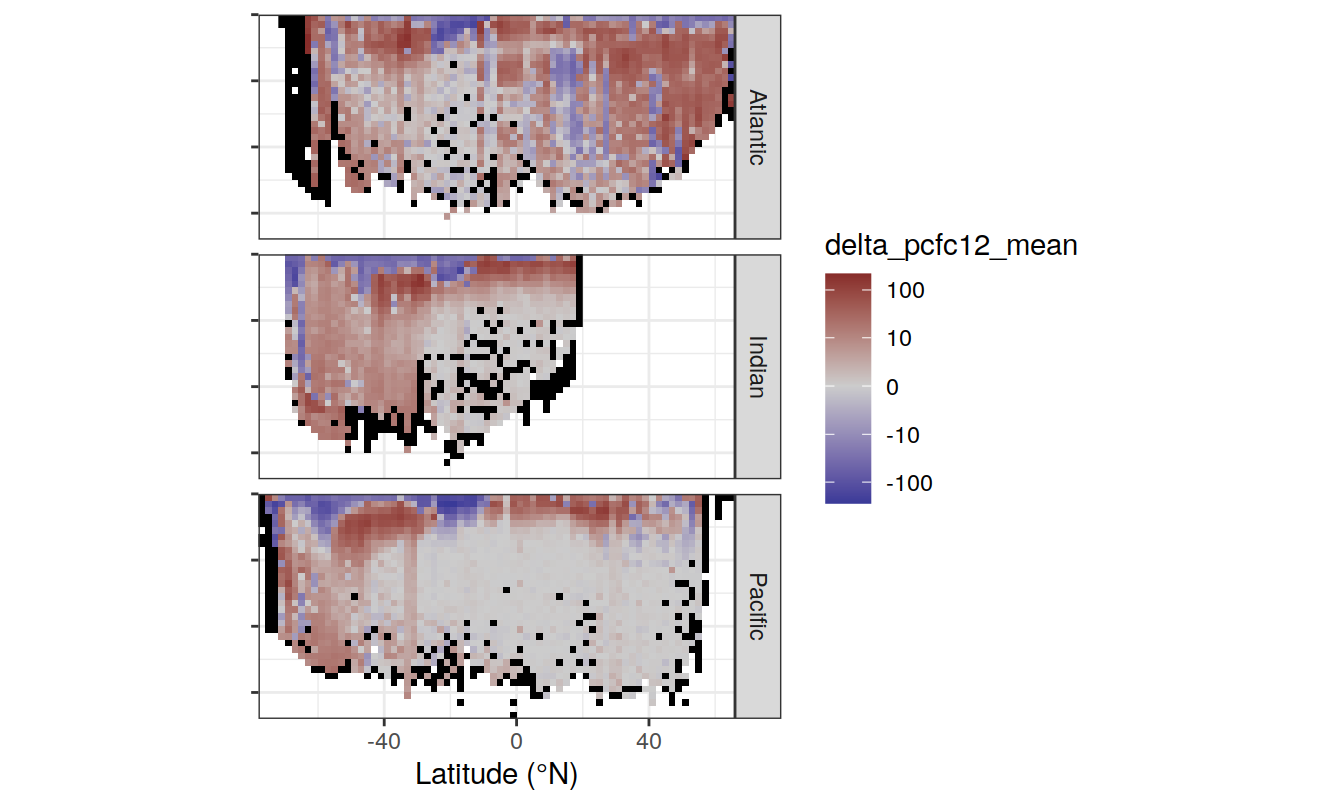
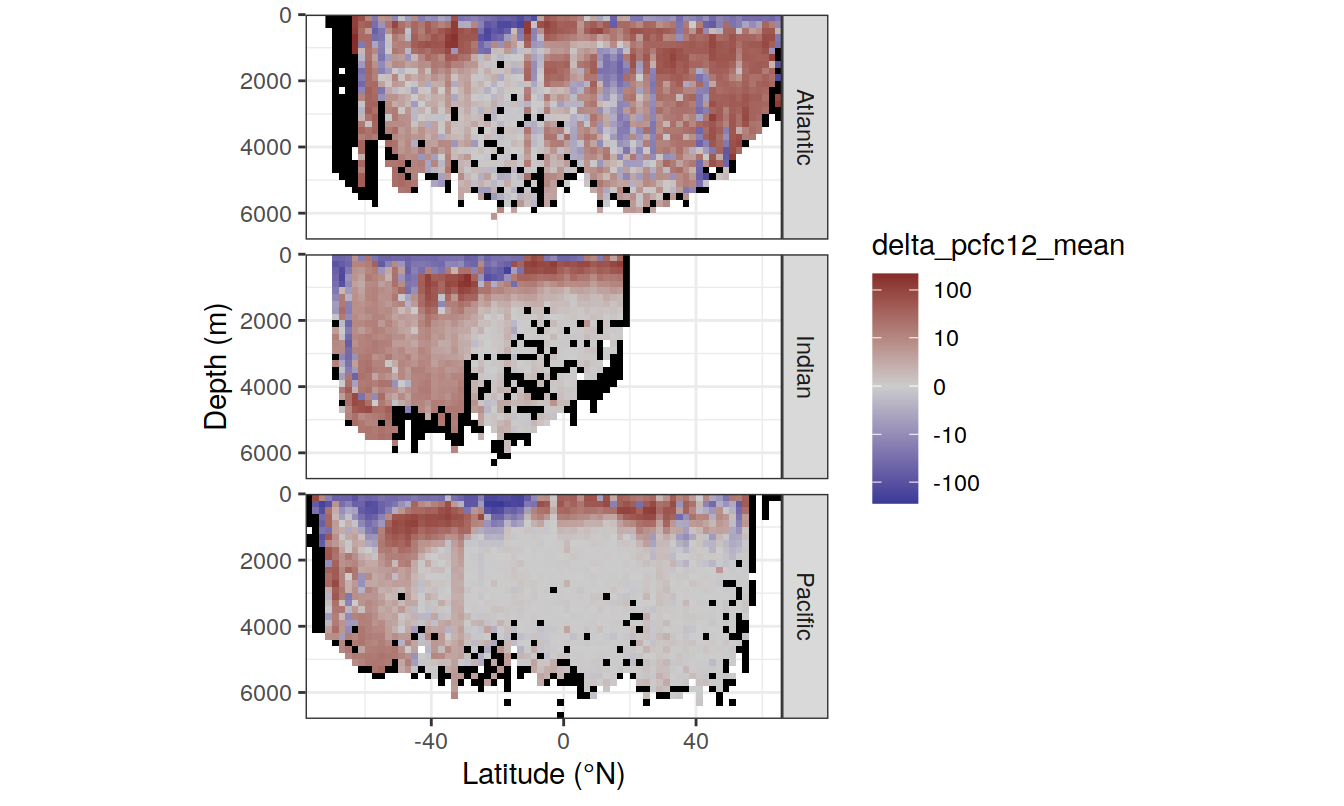
Build site.

Changed region(s): [[0.1562, 0.0, 0.8438, 0.9926], [0.4062, 0.7134, 0.4375, 0.7444]]

diff --git a/docs/tracers_GLODAPv2_2021.html b/docs/tracers_GLODAPv2_2021.html
@@ -575,16 +575,16 @@ This reproducible <a href="https://rmarkdown.rstudio.com">R Markdown</a> analysi
 <div class="panel panel-default">
 <div class="panel-heading">
 <p class="panel-title">
-<a data-toggle="collapse" data-parent="#workflowr-checks" href="#strongRepositoryversionstrongahrefhttpsgithubcomjensdanielmuelleremlrobsvXXXtreeac92dcf6d8883522863fbd1a8649bc565cfcda01targetblankac92dcfa"> <span class="glyphicon glyphicon-ok text-success" aria-hidden="true"></span> <strong>Repository version:</strong> <a href="https://github.com/jens-daniel-mueller/emlr_obs_v_XXX/tree/ac92dcf6d8883522863fbd1a8649bc565cfcda01" target="_blank">ac92dcf</a> </a>
+<a data-toggle="collapse" data-parent="#workflowr-checks" href="#strongRepositoryversionstrongahrefhttpsgithubcomjensdanielmuelleremlrobsvXXXtree569e679f3001106a79c99996d67e13919058e5a4targetblank569e679a"> <span class="glyphicon glyphicon-ok text-success" aria-hidden="true"></span> <strong>Repository version:</strong> <a href="https://github.com/jens-daniel-mueller/emlr_obs_v_XXX/tree/569e679f3001106a79c99996d67e13919058e5a4" target="_blank">569e679</a> </a>
 </p>
 </div>
[2 lines of base64/hex data omitted]
 <div class="panel-body">
 <p>
 Great! You are using Git for version control. Tracking code development and connecting the code version to the results is critical for reproducibility.
 </p>
 <p>
-The results in this page were generated with repository version <a href="https://github.com/jens-daniel-mueller/emlr_obs_v_XXX/tree/ac92dcf6d8883522863fbd1a8649bc565cfcda01" target="_blank">ac92dcf</a>. See the <em>Past versions</em> tab to see a history of the changes made to the R Markdown and HTML files.
+The results in this page were generated with repository version <a href="https://github.com/jens-daniel-mueller/emlr_obs_v_XXX/tree/569e679f3001106a79c99996d67e13919058e5a4" target="_blank">569e679</a>. See the <em>Past versions</em> tab to see a history of the changes made to the R Markdown and HTML files.
 </p>
 <p>
 Note that you need to be careful to ensure that all relevant files for the analysis have been committed to Git prior to generating the results (you can use <code>wflow_publish</code> or <code>wflow_git_commit</code>). workflowr only checks the R Markdown file, but you know if there are other scripts or data files that it depends on. Below is the status of the Git repository when the results were generated:
@@ -593,9 +593,6 @@ Note that you need to be careful to ensure that all relevant files for the analy
 Ignored files:
     Ignored:    .Rhistory
     Ignored:    .Rproj.user/
-
-Unstaged changes:
-    Modified:   code/Workflowr_project_managment.R
 
 </code></pre>
 <p>
@@ -634,6 +631,40 @@ Message
 </tr>
 </thead>
 <tbody>
+<tr>
+<td>
+Rmd
+</td>
+<td>
+<a href="https://github.com/jens-daniel-mueller/emlr_obs_v_XXX/blob/569e679f3001106a79c99996d67e13919058e5a4/analysis/tracers_GLODAPv2_2021.Rmd" target="_blank">569e679</a>
+</td>
+<td>
+jens-daniel-mueller
+</td>
+<td>
+2022-03-21
+</td>
+<td>
+add y-axis labels to figure
+</td>
+</tr>
+<tr>
+<td>
+html
+</td>
+<td>
+<a href="https://rawcdn.githack.com/jens-daniel-mueller/emlr_obs_v_XXX/68faa8a81f2bb32e4fefc4806341ab093ce9728f/docs/tracers_GLODAPv2_2021.html" target="_blank">68faa8a</a>
+</td>
+<td>
+jens-daniel-mueller
+</td>
+<td>
+2022-03-21
+</td>
+<td>
+Build site.
+</td>
+</tr>
 <tr>
 <td>
 html
@@ -5561,9 +5592,7 @@ jens-daniel-mueller
   labs(x = &quot;Latitude (°N)&quot;, y = &quot;Depth (m)&quot;) +
   scale_y_reverse() +
   coord_fixed(ratio = 1e-2, expand = 0) +
-  facet_grid(basin_AIP ~ .) +
-  theme(axis.text.y = element_blank(),
-        axis.title.y = element_blank())</code></pre>
+  facet_grid(basin_AIP ~ .)</code></pre>
 <p><img src="figure/tracers_GLODAPv2_2021.Rmd/zonal_sections_offset-3.png" width="672" style="display: block; margin: auto;" /></p>
 <p>
 <button type="button" class="btn btn-default btn-xs btn-workflowr btn-workflowr-fig" data-toggle="collapse" data-target="#fig-zonal_sections_offset-3">
@@ -6093,6 +6122,17 @@ Date
 </tr>
 </thead>
 <tbody>
+<tr>
+<td>
+<a href="https://github.com/jens-daniel-mueller/emlr_obs_v_XXX/blob/68faa8a81f2bb32e4fefc4806341ab093ce9728f/docs/figure/tracers_GLODAPv2_2021.Rmd/dcant_CFC12_correlation_gamma-1.png" target="_blank">68faa8a</a>
+</td>
+<td>
+jens-daniel-mueller
+</td>
+<td>
+2022-03-21
+</td>
+</tr>
 <tr>
 <td>
 <a href="https://github.com/jens-daniel-mueller/emlr_obs_v_XXX/blob/cb147cc6ebdafb77fb6b9e622ef36e67d3e1fdd0/docs/figure/tracers_GLODAPv2_2021.Rmd/dcant_CFC12_correlation_gamma-1.png" target="_blank">cb147cc</a>
@@ -6657,6 +6697,17 @@ Date
 <tbody>
 <tr>
 <td>
+<a href="https://github.com/jens-daniel-mueller/emlr_obs_v_XXX/blob/68faa8a81f2bb32e4fefc4806341ab093ce9728f/docs/figure/tracers_GLODAPv2_2021.Rmd/dcant_CFC12_correlation_at_low_CFC-1.png" target="_blank">68faa8a</a>
+</td>
+<td>
+jens-daniel-mueller
+</td>
+<td>
+2022-03-21
+</td>
+</tr>
+<tr>
+<td>
 <a href="https://github.com/jens-daniel-mueller/emlr_obs_v_XXX/blob/cb147cc6ebdafb77fb6b9e622ef36e67d3e1fdd0/docs/figure/tracers_GLODAPv2_2021.Rmd/dcant_CFC12_correlation_at_low_CFC-1.png" target="_blank">cb147cc</a>
 </td>
 <td>
@@ -7202,6 +7253,17 @@ Date
 </tr>
 </thead>
 <tbody>
+<tr>
+<td>
+<a href="https://github.com/jens-daniel-mueller/emlr_obs_v_XXX/blob/68faa8a81f2bb32e4fefc4806341ab093ce9728f/docs/figure/tracers_GLODAPv2_2021.Rmd/dcant_CFC12_correlation_gamma_individual-1.png" target="_blank">68faa8a</a>
+</td>
+<td>
+jens-daniel-mueller
+</td>
+<td>
+2022-03-21
+</td>
+</tr>
 <tr>
 <td>
 <a href="https://github.com/jens-daniel-mueller/emlr_obs_v_XXX/blob/cb147cc6ebdafb77fb6b9e622ef36e67d3e1fdd0/docs/figure/tracers_GLODAPv2_2021.Rmd/dcant_CFC12_correlation_gamma_individual-1.png" target="_blank">cb147cc</a>
@@ -7750,6 +7812,17 @@ Date
 <tbody>
 <tr>
 <td>
+<a href="https://github.com/jens-daniel-mueller/emlr_obs_v_XXX/blob/68faa8a81f2bb32e4fefc4806341ab093ce9728f/docs/figure/tracers_GLODAPv2_2021.Rmd/dcant_CFC12_correlation_gamma_individual-2.png" target="_blank">68faa8a</a>
+</td>
+<td>
+jens-daniel-mueller
+</td>
+<td>
+2022-03-21
+</td>
+</tr>
+<tr>
+<td>
 <a href="https://github.com/jens-daniel-mueller/emlr_obs_v_XXX/blob/cb147cc6ebdafb77fb6b9e622ef36e67d3e1fdd0/docs/figure/tracers_GLODAPv2_2021.Rmd/dcant_CFC12_correlation_gamma_individual-2.png" target="_blank">cb147cc</a>
 </td>
 <td>
@@ -8274,6 +8347,17 @@ Date
 <tbody>
 <tr>
 <td>
+<a href="https://github.com/jens-daniel-mueller/emlr_obs_v_XXX/blob/68faa8a81f2bb32e4fefc4806341ab093ce9728f/docs/figure/tracers_GLODAPv2_2021.Rmd/dcant_CFC12_correlation_gamma_individual-3.png" target="_blank">68faa8a</a>
+</td>
+<td>
+jens-daniel-mueller
+</td>
+<td>
+2022-03-21
+</td>
+</tr>
+<tr>
+<td>
 <a href="https://github.com/jens-daniel-mueller/emlr_obs_v_XXX/blob/cb147cc6ebdafb77fb6b9e622ef36e67d3e1fdd0/docs/figure/tracers_GLODAPv2_2021.Rmd/dcant_CFC12_correlation_gamma_individual-3.png" target="_blank">cb147cc</a>
 </td>
 <td>
@@ -8531,6 +8615,17 @@ Date
 </tr>
 </thead>
 <tbody>
+<tr>
+<td>
+<a href="https://github.com/jens-daniel-mueller/emlr_obs_v_XXX/blob/68faa8a81f2bb32e4fefc4806341ab093ce9728f/docs/figure/tracers_GLODAPv2_2021.Rmd/zonal_mean_sections-1.png" target="_blank">68faa8a</a>
+</td>
+<td>
+jens-daniel-mueller
+</td>
+<td>
+2022-03-21
+</td>
+</tr>
 <tr>
 <td>
 <a href="https://github.com/jens-daniel-mueller/emlr_obs_v_XXX/blob/cb147cc6ebdafb77fb6b9e622ef36e67d3e1fdd0/docs/figure/tracers_GLODAPv2_2021.Rmd/zonal_mean_sections-1.png" target="_blank">cb147cc</a>
@@ -9311,6 +9406,17 @@ Date
 <tbody>
 <tr>
 <td>
+<a href="https://github.com/jens-daniel-mueller/emlr_obs_v_XXX/blob/68faa8a81f2bb32e4fefc4806341ab093ce9728f/docs/figure/tracers_GLODAPv2_2021.Rmd/zonal_mean_sections-4.png" target="_blank">68faa8a</a>
+</td>
+<td>
+jens-daniel-mueller
+</td>
+<td>
+2022-03-21
+</td>
+</tr>
+<tr>
+<td>
 <a href="https://github.com/jens-daniel-mueller/emlr_obs_v_XXX/blob/cb147cc6ebdafb77fb6b9e622ef36e67d3e1fdd0/docs/figure/tracers_GLODAPv2_2021.Rmd/zonal_mean_sections-4.png" target="_blank">cb147cc</a>
 </td>
 <td>
@@ -9900,6 +10006,17 @@ Date
 </tr>
 </thead>
 <tbody>
+<tr>
+<td>
+<a href="https://github.com/jens-daniel-mueller/emlr_obs_v_XXX/blob/68faa8a81f2bb32e4fefc4806341ab093ce9728f/docs/figure/tracers_GLODAPv2_2021.Rmd/zonal_mean_sections-5.png" target="_blank">68faa8a</a>
+</td>
+<td>
+jens-daniel-mueller
+</td>
+<td>
+2022-03-21
+</td>
+</tr>
 <tr>
 <td>
 <a href="https://github.com/jens-daniel-mueller/emlr_obs_v_XXX/blob/cb147cc6ebdafb77fb6b9e622ef36e67d3e1fdd0/docs/figure/tracers_GLODAPv2_2021.Rmd/zonal_mean_sections-5.png" target="_blank">cb147cc</a>
